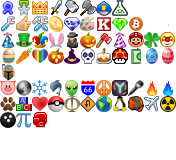
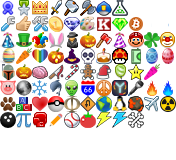
Update default texture pack.
The default texture pack has been updated to Muscle's Cup OG, with a
tweak to the tiles.png to include the normal black hole. Fixes #132,
though it overwrites the current set texture pack. It should be possible
going forward to avoid that, since now we can distinguish cases where
a custom textures has been set.

Changed region(s): [[0.0852, 0.375, 0.9091, 0.5], [0.2841, 0.6875, 0.8239, 0.8125], [0.625, 0.7812, 0.6534, 0.8125]]

diff --git a/src/js/modules/textures.js b/src/js/modules/textures.js
@@ -5,7 +5,7 @@ var logger = require('util/logger')('textures');
 logger.info('Loading textures');
 
 /*
- * We store default and custom textures as dataURLs in
+ * We store default and custom textures as data URIs in
  * chrome.storage.local under
  * - textures
  * - default_textures
@@ -25,7 +25,7 @@ const texture_names = [
 
 /*
  * Updates saved textures.
- * Each should be a dataURL.
+ * Each should be a data URI.
  */
 exports.set = function (new_textures) {
   var result = {};
@@ -44,13 +44,13 @@ exports.set = function (new_textures) {
       throw new Error("Textures not set.");
     }
   });
-};
+}
 
 /**
  * Retrieves saved textures. If custom is true then custom
  * textures are returned for sprites where they are set.
  * 
- * Each should be a dataURL.
+ * Each should be a data URI.
  */
 exports.get = function (custom) {
   return chrome.storage.promise.local.get(['textures', 'default_textures'])
@@ -64,7 +64,8 @@ exports.get = function (custom) {
       }
     }
     return loadImage(urls);
-  }).then((images) => {
+  })
+  .then((images) => {
     var out = {};
     for (let i = 0; i < images.length; i++) {
       out[texture_names[i]] = images[i];
@@ -74,11 +75,11 @@ exports.get = function (custom) {
 }
 
 /**
- * Get a data URL for the image.
+ * Get a data URI for the image.
  * @param {Image} img - The image.
- * @returns {string} the Data URL representing the image.
+ * @returns {string} the data URI representing the image.
  */
-function imageToDataURL(img) {
+function imageToDataURI(img) {
   var canvas = document.createElement("canvas");
   canvas.width = img.width;
   canvas.height = img.height;
@@ -98,32 +99,38 @@ function getDefaultTextures() {
   })).then((images) => {
     var out = {};
     for (let i = 0; i < images.length; i++) {
-      out[texture_names[i]] = imageToDataURL(images[i]);
+      out[texture_names[i]] = imageToDataURI(images[i]);
     }
     return out;
   });
 }
 
-function setDefaultTextures() {
-  return getDefaultTextures().then((textures) => {
-    return chrome.storage.promise.local.set({
-      textures: textures,
-      // Copy the object, otherwise default_textures is
-      // null.
-      default_textures: Object.assign({}, textures)
-    });
-  });
-}
-
 /**
  * Ensure textures are set and ready.
- * @type {Promise}
+ * @param {bool} forceReload force reload of default textures from disk.
+ * @param {bool} overwrite force overwrite/removal of custom textures, for
+ *   addressing updates to texture format.
+ * @returns {Promise}
  */
-exports.ready = function () {
+exports.ready = function (forceReload=false, overwrite=false) {
   return chrome.storage.promise.local.get(["default_textures", "textures"])
-    .then((items) => {
-    if (!items.textures || !items.default_textures) {
-      return setDefaultTextures();
+  .then(({default_textures, textures}) => {
+    let resetDefault = forceReload || !default_textures;
+    let resetCustom = overwrite || !textures;
+    if (resetDefault) {
+      return getDefaultTextures().then((new_textures) => {
+        if (resetCustom) {
+          textures = {};
+        }
+        return chrome.storage.promise.local.set({
+          default_textures: new_textures,
+          textures: textures
+        });
+      });
+    } else if (resetCustom) {
+      return chrome.storage.promise.local.set({
+        textures: {}
+      });
     }
   });
-}
+};

diff --git a/src/js/background.js b/src/js/background.js
@@ -1244,12 +1244,20 @@ chrome.runtime.onInstalled.addListener((details) => {
         from: last_version,
         to:   version
       });
-      // Clear preview storage from versions prior to 1.3.
+
       if (semver.satisfies(last_version, '<1.3.0')) {
+        // Clear preview storage from versions prior to 1.3.
         chrome.storage.promise.local.clear().then(() => {
           chrome.runtime.reload();
         }).catch((err) => {
           logger.error('Error clearing chrome.storage.local: ', err);
+        });
+      }
+
+      if (semver.satisfies(last_version, '<1.3.15')) {
+        // Force texture reload.
+        Textures.ready(true, true).then(() => {
+          logger.debug('Textures reloaded.');
         });
       }
     }
